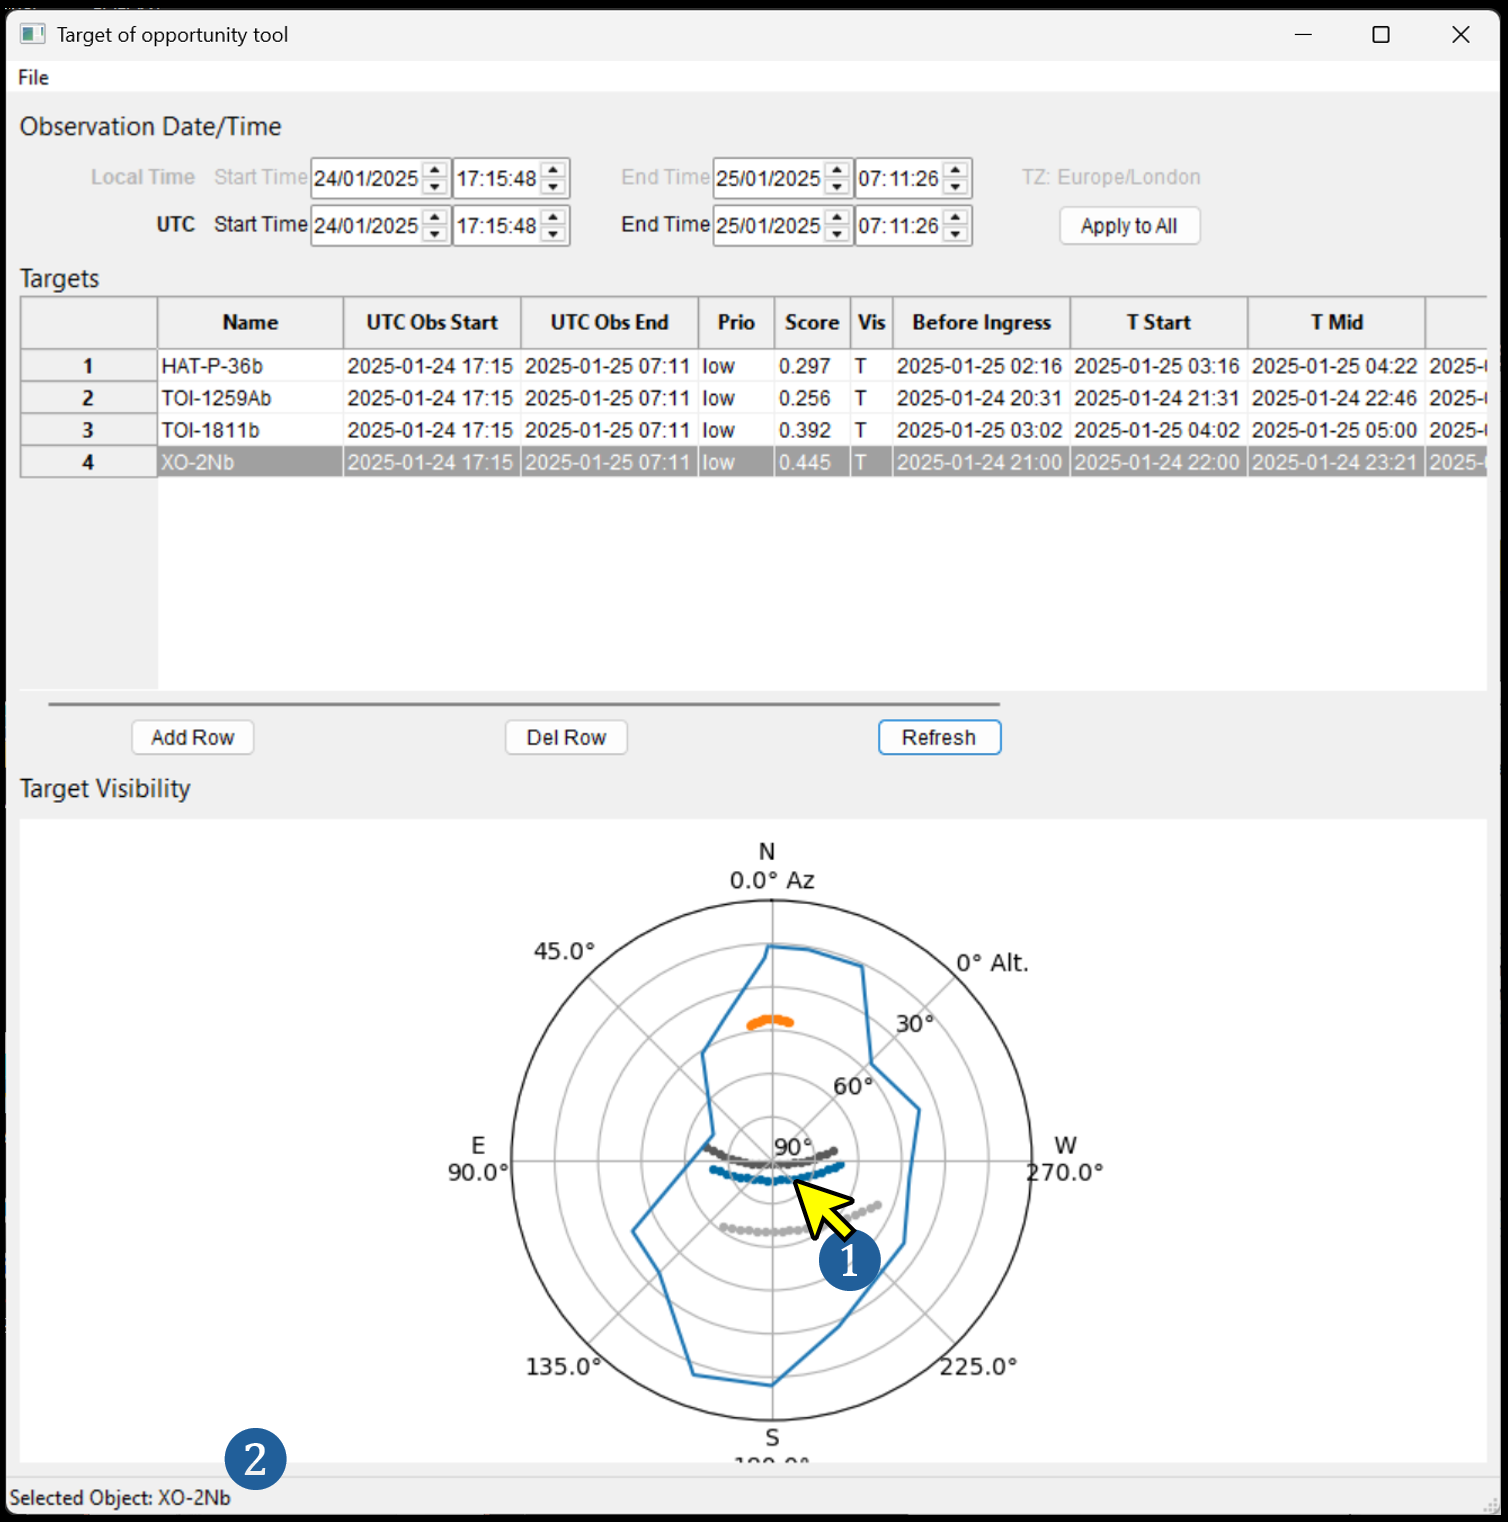
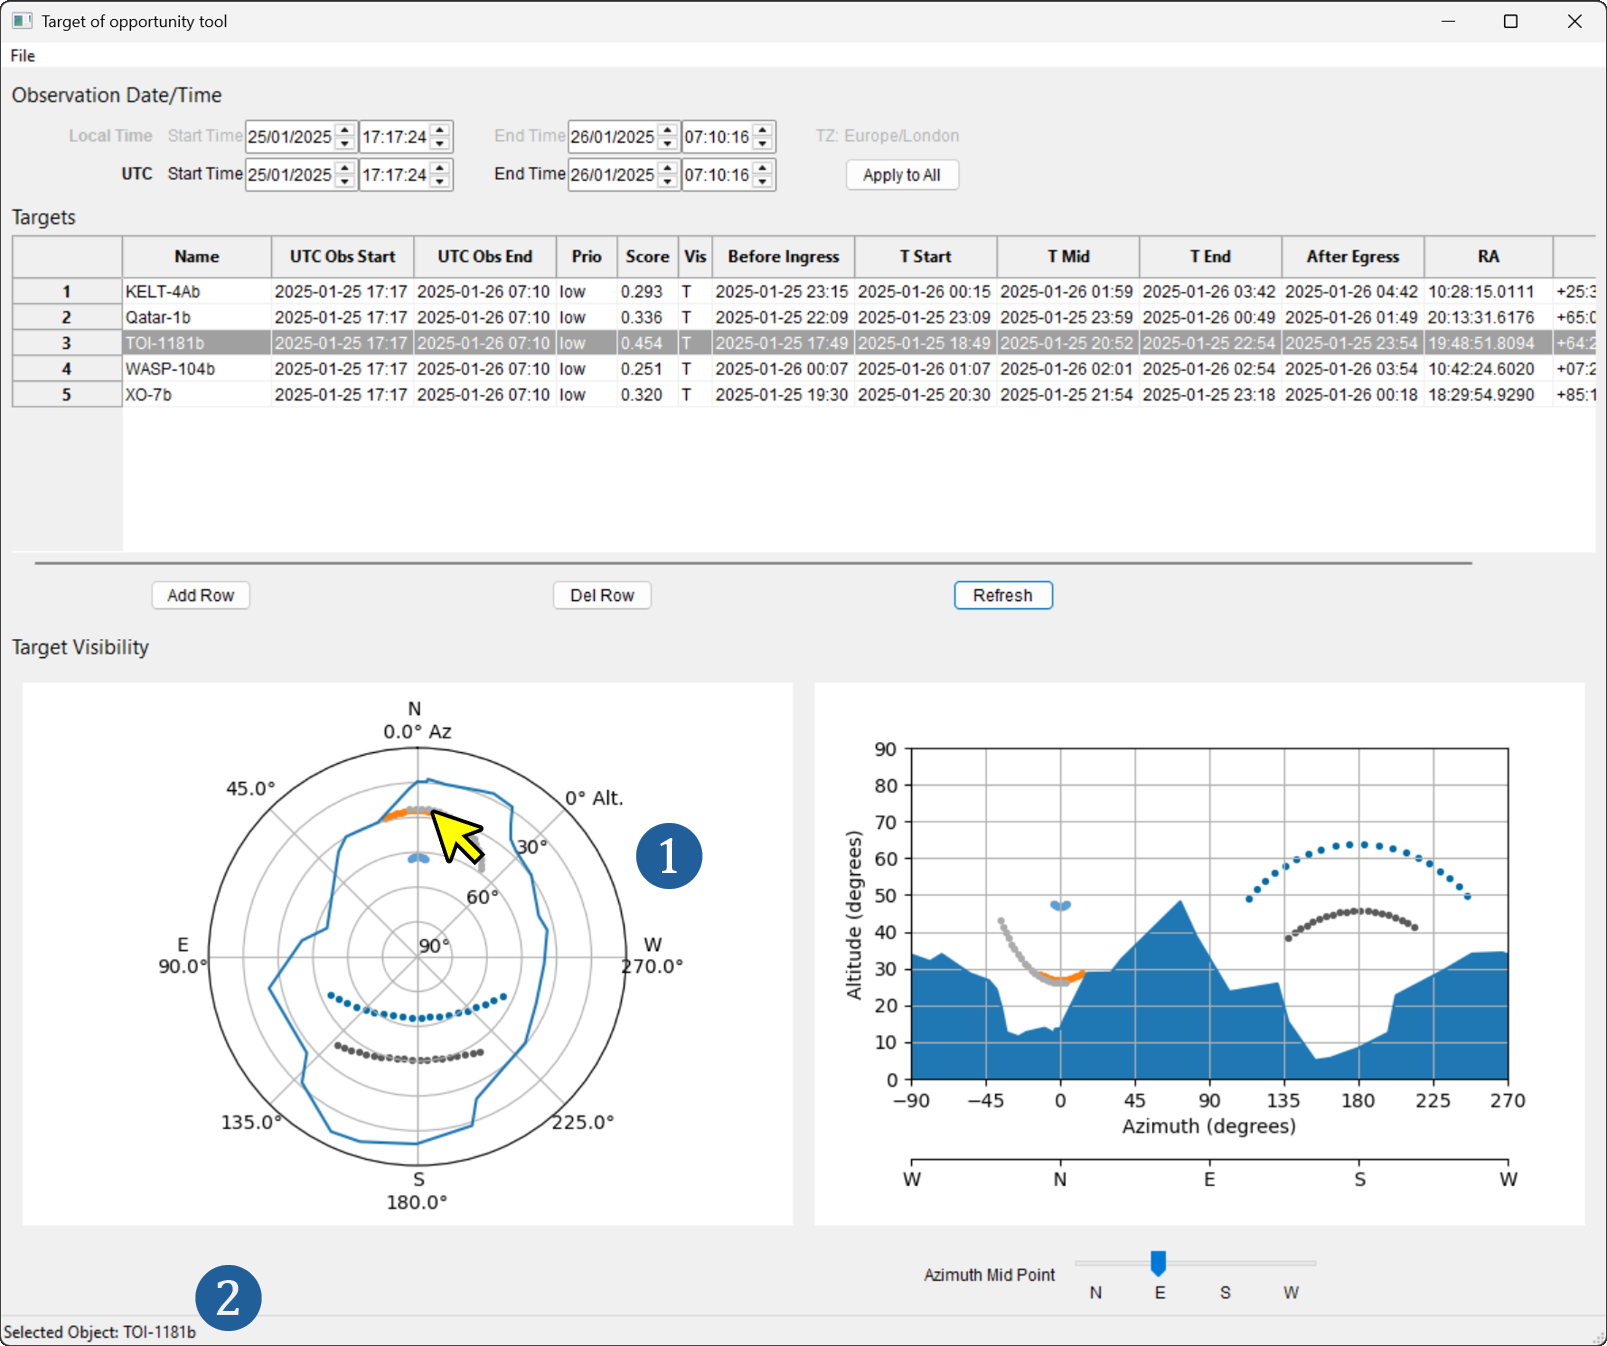
update to docs to reflect additional visibility plot

diff --git a/doc/usage.md b/doc/usage.md
@@ -19,13 +19,15 @@ Once the data files have been loaded the splash screen will be replaced with the
 
 ![alt text](/images/doc_10.png "Empty main tool window")
 
-The main window has a number of areas and controls that are used to tailor what the tool will show. The top area is the "Observation Date/Time" which contains both local and UTC date/times for observation start (marked with the "1" label in the above) and end ("2" above). The local time is based on the time zone specified in the `observatory.yaml` file and the time zone is shown on the above diagram marked with the "3" label. Changing the local time will automatically update UTC time and vice versa. The end time must always be greater than the start time. The "Apply to All" button is only used when the targets in the area marked with the "5" label have different observation times and the start/end times specified in the "Observation Date/Time" should be used to override those.
+The main window has a number of areas and controls that are used to tailor what the tool will show. The top area is the "Observation Date/Time" which contains both local and UTC date/times for observation start (marked with the "1" label in the above) and end ("2" above). The local time is based on the time zone specified in the `observatory.yaml` file and the time zone is shown on the above diagram in line with the Local TIme row. Note that the local time row lables are grayed out - this is because the tool works in UTC and local times are here just for convenience. Changing the local time will automatically update UTC time and vice versa. The end time must always be greater than the start time. The "Apply to All" button (3) is only used when the targets in the area marked with the "4" label have different observation times and the start/end times specified in the "Observation Date/Time" should be used to override those.
 
-Internally the tool uses UTC times for all operations and it is useful to always think in UTC. Time zones are evil as it is and let's not go in to the whole summer time mess. Ergo, UTC (aka Zulu time, if you are military minded).
+Internally the tool uses UTC times for all operations and it is useful to always think in UTC. Time zones are [evil](https://www.zainrizvi.io/blog/falsehoods-programmers-believe-about-time-zones/) as it is and let's not go in to the whole summer time mess. Ergo, UTC (aka Zulu time, if you are militarily minded). Of course, we could all just switch to [consensus time](https://www.xkcd.com/2594/) but until that happens UTC is the way to go. 
 
-The "Targets" are is where all target data will be presented. This area can be populated automatically (see below) or the user can enter targets manually using the "Add Row" ("6") and "Del Row" ("7") buttons. If a row is added manually, clicking on the "Name" cell and entering the target name will fetch the exoplanet or variable star details and will automatically populate other fields. "UTC Obs Start" and "UTC Obs End" can also be modified. Once targets have been loaded/entered they may (!) appear in the sky visibility plot in the area below (9). 
+The "Targets" are is where all target data will be presented. This area can be populated automatically (see below) or the user can enter targets manually using the "Add Row" (5) and "Del Row" (6) buttons. If a row is added manually, clicking on the "Name" cell and entering the target name will fetch the exoplanet or variable star details and will automatically populate other fields. "UTC Obs Start" and "UTC Obs End" can also be modified. Once targets have been loaded/entered they may (!) appear in the sky visibility plots in the area below (7 and 8). 
 
-"Target Visibility" area (9) shows the whole sky, as if the observer was lying on the ground, looking up with their head pointing north and their feet pointing south. The plot initially shows the horizon as a coloured polygon. Anything inside the polygon is visible and anything outside is not. Finally, the status bar (10) is used to show which target is selected in the visibility plot.
+"Target Visibility" area is subdivided in to two plots. The first plot (7), looking from the left, shows the whole sky, as if the observer was lying on the ground, looking up with their head pointing north and their feet pointing south. The plot initially shows the horizon as a polygon. Anything inside the polygon is visible and anything outside is not. The second plot (8) shows the same thing but as an Altitude/Azimuth plot. Here it is easier to see the horizon (coloured area) and the sky (everything above all the way up to 90 degrees). At the bottom of the horizontal axes an additional axes is there showing North, East, South and West points and, since this plot wraps around, initially North is both the first and the last point. Underneath plot (8) is a slider that allows changing of the Altitude-Azimuth mid-point. This can be used to rotate the viewpoint and see the horizon and the sky as if looking from a different direction. See the target section below for an example.
+
+Finally, the status bar (10) is used to show which target is selected in either of the visibility plots (7 or 8).
 
 ## Loading Targets
 
@@ -55,17 +57,29 @@ The pull-down menu also has the obligatory "Exit" option (3).
 
 Once the targets are loaded they will be shown in the main window:
 
-![alt text](/images/doc_20.png "Main window with four exoplanets loaded")
+![alt text](/images/doc_20.png "Main window with five exoplanets loaded")
 
 The Targets area will show target details (1) including name, priority and score as well as transit timings. Priority is the ExoClock observation priority while score is tool's own observation priority score betwen 0 (not very interesting) and 1 (super interesting). See [exoplanet score](exo_score.md) for more information. 
 
-It the target was manually entered and it is not visible it will be showed grayed out. Visible targets will also be shown in the "Target Visibility" area (2). The will always look like coloured arcs denoting the path they will take through the sky. The direction can be inferred from the observation that the sky rotates around the Polaris (more or less) and east to west. 
+It the target was manually entered and it is not visible it will be showed grayed out. Visible targets will also be shown in the "Target Visibility" area (2). Targets will always be represented by coloured arcs denoting the path they will take through the sky. The direction can be inferred from the observation that the sky rotates around the Polaris (more or less) and east to west. 
+
+If the Azimuth mid-point slider is moved, the horizon plot on the right will rotate the viewpoint. Moving the slider to "E" (East) in the above will result in the following view:
+
+![alt text](/images/doc_22.png "Main window with five exoplanets loaded with the horizon view rotated to the East")
+
+It is easy to see that now the view in (1) has changed and that all transits are now visible as uninterrupted arcs.
 
 Note that targets are not labelled. This is by design as usually (especially for large telescopes) there will be many targets visible at any time so the number of targets can easily be 20+ and legend will provide very little information. The easiest way to determine what arc is what target is by clicking on it:
 
-![alt text](/images/doc_30.png "Main window with exoplanets with a target arc being clicked on")
+![alt text](/images/doc_30.png "Main window with exoplanets with a target arc being clicked on, on the polar plot")
 
 Clicking on the target (1) will show its name on the status bar (2).
+
+It is possible to click on either plot to select the target:
+
+![alt text](/images/doc_32.png "Main window with exoplanets with a target arc being clicked on, on the alt-az plot")
+
+Note that clicking on the targets in either plot also selects the target in the "Targets" grid above.
 
 ## Targets of Opportunity
 
@@ -77,7 +91,7 @@ A popup window will appear (2) which will inform you of the progress of loading 
 
 ![alt text](/images/doc_50.png "Target of opportunity window")
 
-This windows will show the sky view with targets of interested plotted as points (1). It will also show lots of interesting data about the targets (2). If the target of opportunity has a number events during the transit time, it will be listed multiple times.
+This windows will show the sky view with targets of interested plotted as points (1). It will also show lots of interesting data about the targets (2). If the target of opportunity has a number events during the transit time, it will be listed multiple times. This example shows an evening when a number of interesting events are visible and, looking at the "Event ISO" column we can see that by observing between 22:57 and 01:07 four events can be recorded - three W Ursae Majoris eclipsing variables and one β Persei-type (Algol) eclipsing system. Looking at the main screen again, at the target we can see that the transit + pre/post times for TOI-1181b range from 17:49 to 23:54 so if the additional events are of interest, the transit session can be extended to after 01:07.
 
 The information presented on this window can be saved using the "Save" button (3). Clicking on this button will create two files, one with the sky image and one with all the information held in the table.
 
